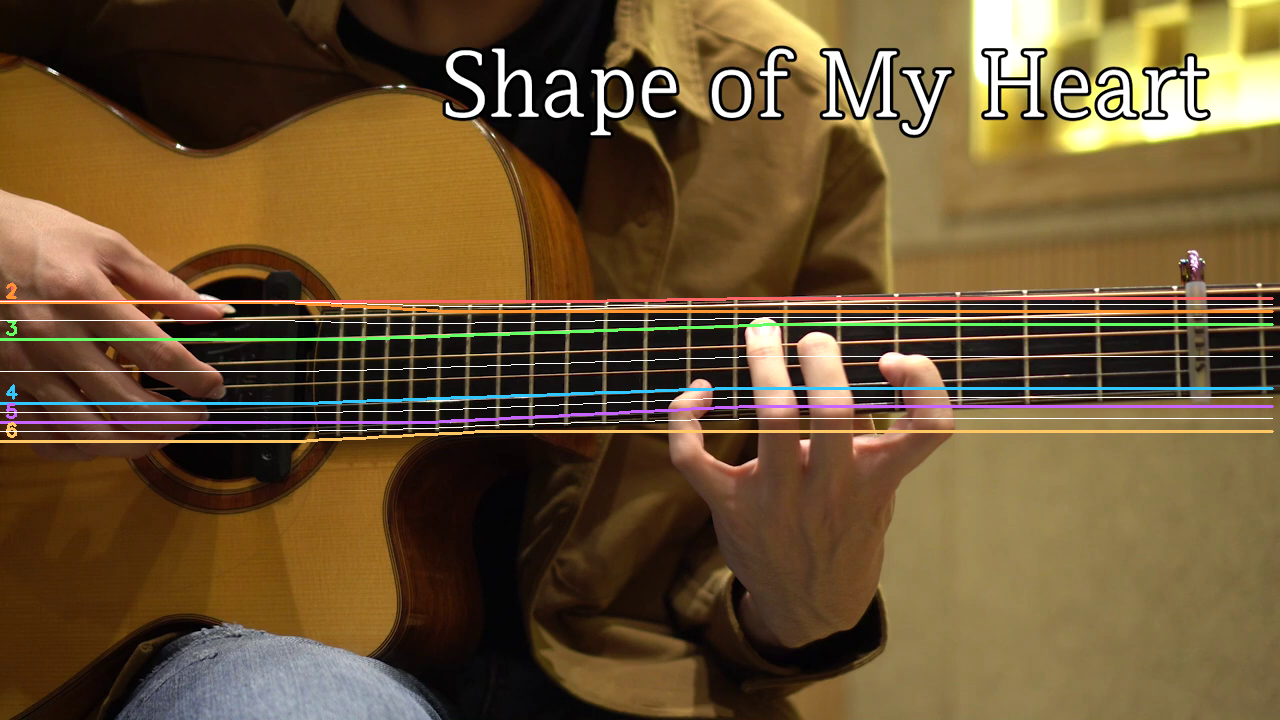
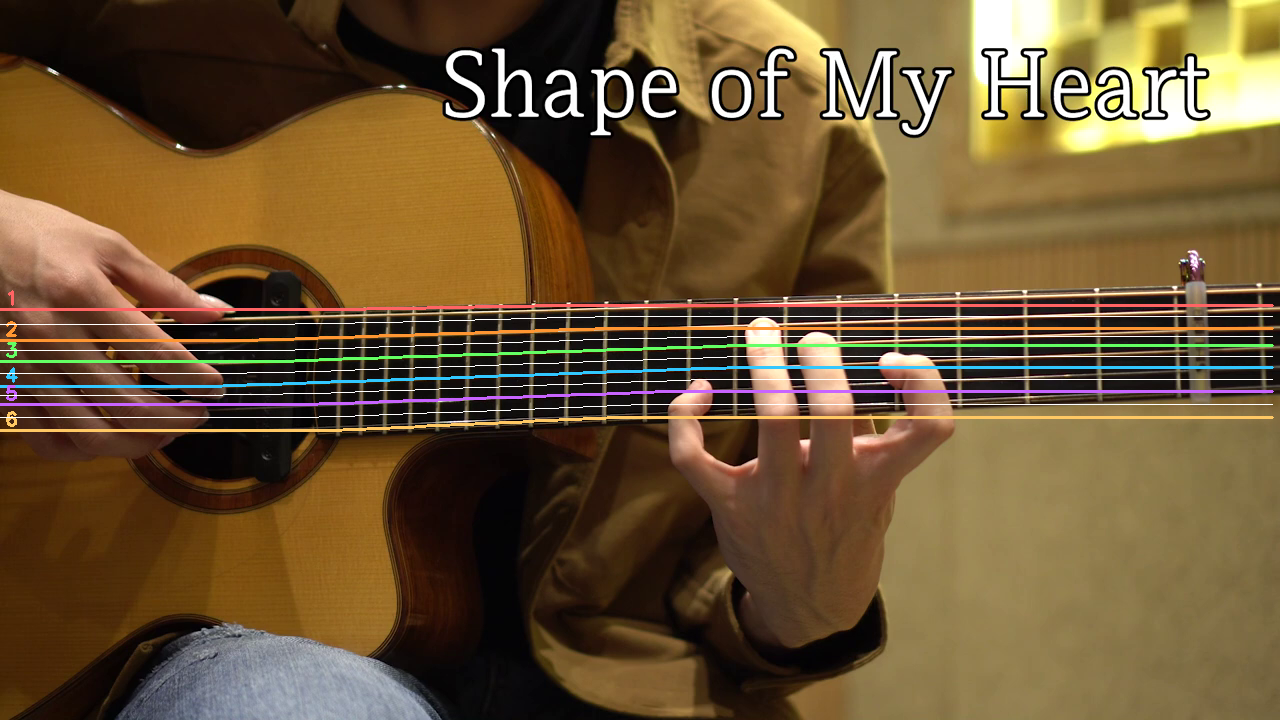
Rework string detection debug pipeline: x_ref visualization and edge-pair step
Remove second-pass outer string refinement from detectStringLinesAngled and
expose inner_x_ref in debug info. Refactor generateDebugImages to use a single
detection call, update 05_hough_lines to show raw Hough lines with x_ref
intersection markers, and add 05b_string_pairs showing uniquely colored edge
pairs with their midpoint lines used as the string lines in 06_string_lines.

Changed region(s): [[0.0, 0.3972, 1.0, 0.6417]]

diff --git a/scripts/inference/generateDebugImages.py b/scripts/inference/generateDebugImages.py
@@ -37,22 +37,28 @@ def main():
     h, w = frame.shape[:2]
     gray = cv2.cvtColor(frame, cv2.COLOR_BGR2GRAY)
     result = detectStringLinesInHandsRegion(frame, gray, 6, returnCrop=True)
-    stringLines, handsX1, handsY1, handsX2, handsY2, roiGray, roiEdges = result
-    # keep detection-time roi for 05_hough_lines (before bbox is refined below)
+    _initLines, handsX1, handsY1, handsX2, handsY2, roiGray, roiEdges = result
+    # Single authoritative detection call: returnDebug=True gives us both the
+    # string lines AND the cluster debug info so 05 and 06 are always in sync.
     detectionRoiEdges = roiEdges
     detectionY1 = handsY1
-    if stringLines is None:
-        stringLines = detectStringLinesAngled(roiEdges, 6, 0, roiEdges.shape[0], yOffset=handsY1)
-        if stringLines is not None:
-            stringLines = [(l[0] + handsX1, l[1], l[2] + handsX1, l[3]) for l in stringLines]
-    if stringLines is None:
+    _roiResult, dbgInfo = detectStringLinesAngled(
+        detectionRoiEdges, 6, 0, detectionRoiEdges.shape[0],
+        yOffset=detectionY1, returnDebug=True)
+    if _roiResult is not None:
+        # Convert ROI-local x back to full-frame x
+        stringLines = [
+            (l[0] + handsX1, l[1], l[2] + handsX1, l[3]) for l in _roiResult
+        ]
+    else:
         stringLines = fallbackStringLines(h, w, 6, handsY1, handsY2)
         handsX1, handsY1, handsX2, handsY2 = 0, int(h * 0.2), w, int(h * 0.8)
         roiGray = gray[handsY1:handsY2, :]
         roiEdges = cv2.Canny(roiGray, 50, 150)
         detectionRoiEdges = roiEdges
         detectionY1 = handsY1
-    else:
+        dbgInfo = {'hough_candidates': [], 'selected_members': [], 'outer_refined': []}
+    if _roiResult is not None:
         bbox = getProcessingRoi(frame, gray, h, w, stringLines)
         handsX1, handsY1, handsX2, handsY2 = bbox
         roiGray = gray[handsY1:handsY2, handsX1:handsX2]
@@ -75,19 +81,134 @@ def main():
         for line in lines:
             x1, y1, x2, y2 = line[0]
             cv2.line(houghVis, (x1, y1), (x2, y2), (0, 255, 255), 1)
-    _, dbgInfo = detectStringLinesAngled(detectionRoiEdges, 6, 0, detectionRoiEdges.shape[0], yOffset=detectionY1, returnDebug=True)
-    for members in dbgInfo.get('selected_members', []):
-        # members have x in ROI-local space, y in full-frame space (yOffset was applied)
-        avgX1 = int(np.mean([l[0] for l in members]))
-        avgY1 = int(np.mean([l[1] for l in members])) - detectionY1
-        avgX2 = int(np.mean([l[2] for l in members]))
-        avgY2 = int(np.mean([l[3] for l in members])) - detectionY1
-        # green = string line coincides with a single Hough line; blue = averaged from multiple
-        color = (0, 255, 0) if len(members) == 1 else (255, 100, 0)
-        cv2.line(houghVis, (avgX1, avgY1), (avgX2, avgY2), color, 2)
+    x_ref = dbgInfo.get('inner_x_ref')
+    if x_ref is not None:
+        cv2.line(houghVis, (x_ref, 0), (x_ref, houghVis.shape[0] - 1), (0, 0, 255), 1)
+        cv2.putText(houghVis, f"x={x_ref}", (x_ref + 3, 12),
+                    cv2.FONT_HERSHEY_SIMPLEX, 0.4, (0, 0, 255), 1)
+        if lines is not None:
+            for line in lines:
+                x1, y1, x2, y2 = line[0]
+                xs, xe = min(x1, x2), max(x1, x2)
+                if xs <= x_ref <= xe:
+                    t = (x_ref - x1) / (x2 - x1) if abs(x2 - x1) > 0 else 0.5
+                    iy = int(y1 + t * (y2 - y1))
+                    cv2.circle(houghVis, (x_ref, iy), 3, (0, 0, 255), -1)
     cv2.imwrite(str(outDir / "05_hough_lines.png"), houghVis)
+
+    # 05b: pair each hit line with its string-edge partner and draw midpoint string lines
+    _PAIR_DIST = 20  # max y-gap between the two edges of one string
+
+    def _y_at(seg, x):
+        x1, y1, x2, y2 = seg
+        xs, xe = min(x1, x2), max(x1, x2)
+        if x < xs or x > xe:
+            return None
+        if abs(x2 - x1) < 1:
+            return (y1 + y2) / 2.0
+        return y1 + (y2 - y1) * (x - x1) / (x2 - x1)
+
+    # Angle-filtered candidates in ROI-local coords
+    _MAX_ANGLE = 35
+    acands = []
+    if lines is not None:
+        for seg in lines:
+            x1, y1, x2, y2 = seg[0]
+            ang = np.degrees(np.arctan2(y2 - y1, x2 - x1))
+            if abs(ang) <= _MAX_ANGLE or abs(abs(ang) - 180) <= _MAX_ANGLE:
+                acands.append((x1, y1, x2, y2))
+
+    # Lines that span x_ref, sorted by y there
+    hit = []
+    if x_ref is not None:
+        for idx, l in enumerate(acands):
+            y = _y_at(l, x_ref)
+            if y is not None:
+                hit.append((y, idx))
+        hit.sort(key=lambda t: t[0])
+
+    used_idx = set()
+    string_segs = []
+
+    for y_i, idx_i in hit:
+        if idx_i in used_idx:
+            continue
+        l_i = acands[idx_i]
+        xe_i = max(l_i[0], l_i[2])
+        best_jdx = None
+        best_pair_x = None
+
+        for jdx, l_j in enumerate(acands):
+            if jdx == idx_i or jdx in used_idx:
+                continue
+            xs_j = min(l_j[0], l_j[2])
+            xe_j = max(l_j[0], l_j[2])
+            scan_start = max(x_ref, xs_j)
+            scan_end = min(xe_i, xe_j)
+            if scan_start > scan_end:
+                continue
+            ya_s = _y_at(l_i, scan_start)
+            yb_s = _y_at(l_j, scan_start)
+            if ya_s is None or yb_s is None:
+                continue
+            d_s = abs(ya_s - yb_s)
+            if d_s <= _PAIR_DIST:
+                pair_x = scan_start
+            else:
+                ya_e = _y_at(l_i, scan_end)
+                yb_e = _y_at(l_j, scan_end)
+                if ya_e is None or yb_e is None:
+                    continue
+                d_e = abs(ya_e - yb_e)
+                if d_e >= d_s or d_e > _PAIR_DIST:
+                    continue
+                frac = (d_s - _PAIR_DIST) / (d_s - d_e)
+                pair_x = int(scan_start + frac * (scan_end - scan_start))
+            if best_pair_x is None or pair_x < best_pair_x:
+                best_pair_x = pair_x
+                best_jdx = jdx
+
+        if best_jdx is not None:
+            used_idx.add(idx_i)
+            used_idx.add(best_jdx)
+            string_segs.append((l_i, acands[best_jdx], y_i))
+
+    _pair_colors = [
+        (0, 255, 0), (0, 165, 255), (0, 0, 255),
+        (255, 0, 255), (0, 255, 255), (255, 128, 0),
+        (128, 0, 255), (0, 200, 100), (200, 200, 0), (255, 0, 128),
+    ]
+    # Build midpoint lines in ROI-local coords, then convert to full-frame
+    # Each midpoint line: from x_ref (on l_i) to end of pair overlap
+    pairMidLines = []
+    for la, lb, y_hit in string_segs:
+        xe_a = max(la[0], la[2])
+        xe_b = max(lb[0], lb[2])
+        end_x = min(xe_a, xe_b)
+        ya_end = _y_at(la, end_x)
+        yb_end = _y_at(lb, end_x)
+        if ya_end is None or yb_end is None:
+            continue
+        mid_y_end = (ya_end + yb_end) / 2.0
+        # Convert ROI-local -> full-frame
+        fx1 = x_ref + handsX1
+        fy1 = int(y_hit) + detectionY1
+        fx2 = end_x + handsX1
+        fy2 = int(mid_y_end) + detectionY1
+        pairMidLines.append((fx1, fy1, fx2, fy2))
+
+    pairVis = houghVis.copy()
+    for pi, (la, lb, _) in enumerate(string_segs):
+        col = _pair_colors[pi % len(_pair_colors)]
+        x1a, y1a, x2a, y2a = la
+        x1b, y1b, x2b, y2b = lb
+        cv2.line(pairVis, (x1a, y1a), (x2a, y2a), col, 2)
+        cv2.line(pairVis, (x1b, y1b), (x2b, y2b), col, 2)
+    cv2.imwrite(str(outDir / "05b_string_pairs.png"), pairVis)
+
+    drawLines = pairMidLines if len(pairMidLines) == len(colors) else stringLines
     linesVis = frame.copy()
-    for i, (x1, y1, x2, y2) in enumerate(stringLines):
+    for i, (x1, y1, x2, y2) in enumerate(drawLines):
         cv2.line(linesVis, (int(x1), int(y1)), (int(x2), int(y2)), colors[i], 2)
         cv2.putText(linesVis, str(i + 1), (int(x1) + 5, int(y1) - 5),
                     cv2.FONT_HERSHEY_SIMPLEX, 0.6, colors[i], 2)
@@ -138,7 +259,7 @@ def main():
     docsDir.mkdir(parents=True, exist_ok=True)
     generated = [
         "01_original.png", "02_roi_marked.png", "03_roi_grayscale.png", "04_canny_edges.png",
-        "05_hough_lines.png", "06_string_lines.png", "07_band_boundaries.png",
+        "05_hough_lines.png", "05b_string_pairs.png", "06_string_lines.png", "07_band_boundaries.png",
         "08_colored_edges.png", "09_final_overlay.png"
     ]
     for name in generated:

diff --git a/scripts/string_tracking/stringEdgeTracker.py b/scripts/string_tracking/stringEdgeTracker.py
@@ -122,10 +122,16 @@ def detectStringLinesAngled(edgeImg, numStrings=6, roiY1=0, roiY2=None, maxAngle
 
     indices = [int(i * (n - 1) / (numStrings - 1)) for i in range(numStrings)] if numStrings > 1 else [0]
     selected = [filtered[i] for i in indices]
-    result = [m['line'] for m in selected]
 
+    result = [m['line'] for m in selected]
     if returnDebug:
-        return result, {'hough_candidates': candidates, 'selected_members': [m['members'] for m in selected]}
+        # x_ref: smallest x where all selected strings simultaneously have Hough line coverage
+        inner_x_ref = max(m['x_start'] for m in selected) if selected else None
+        return result, {
+            'hough_candidates': candidates,
+            'selected_members': [m['members'] for m in selected],
+            'inner_x_ref': inner_x_ref,
+        }
     return result
 
 
